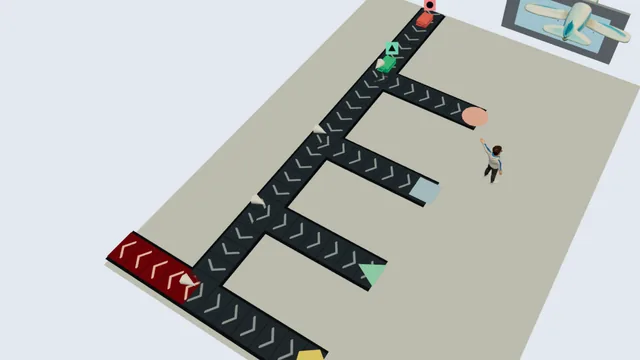
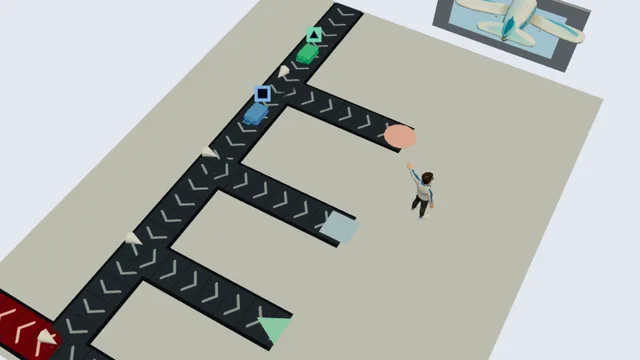
thumbs: card thumbnails for luggage-rush, delivery-drone, shopping-cart, penguin-slide
Captured with tools/thumbs against a flagged preview of origin/main; input scripts
re-framed so the hero and the action sit near the centre (zoom like the other games).
meta.thumbnail set for all four.

diff --git a/play50games-frontend/src/arcade3d/games/shopping-cart/meta.ts b/play50games-frontend/src/arcade3d/games/shopping-cart/meta.ts
@@ -29,7 +29,7 @@ export const shoppingCartMeta: ArcadeGameMeta = {
       touch: "Joystick to steer, hold Ride to ride",
    },
    scoring: { ...PROPOSED_LIMITS },
-   thumbnail: null,
+   thumbnail: "/images/3d/shopping-cart.webp",
    accent: "#fb923c",
    owner: "antigravity",
 };

diff --git a/play50games-frontend/src/arcade3d/games/delivery-drone/meta.ts b/play50games-frontend/src/arcade3d/games/delivery-drone/meta.ts
@@ -27,7 +27,7 @@ export const deliveryDroneMeta: ArcadeGameMeta = {
       unitLabel: "pts",
       display: "int",
    },
-   thumbnail: null,
+   thumbnail: "/images/3d/delivery-drone.webp",
    accent: "#38bdf8",
    owner: "codex",
 };

diff --git a/play50games-frontend/src/arcade3d/games/penguin-slide/meta.ts b/play50games-frontend/src/arcade3d/games/penguin-slide/meta.ts
@@ -27,7 +27,7 @@ export const penguinSlideMeta: ArcadeGameMeta = {
       unitLabel: "pts",
       display: "int",
    },
-   thumbnail: null,
+   thumbnail: "/images/3d/penguin-slide.webp",
    accent: "#67e8f9",
    owner: "codex",
 };

diff --git a/play50games-frontend/src/arcade3d/games/luggage-rush/meta.ts b/play50games-frontend/src/arcade3d/games/luggage-rush/meta.ts
@@ -27,7 +27,7 @@ export const luggageRushMeta: ArcadeGameMeta = {
       unitLabel: "pts",
       display: "int",
    },
-   thumbnail: null,
+   thumbnail: "/images/3d/luggage-rush.webp",
    accent: "#60a5fa",
    owner: "cursor",
 };
